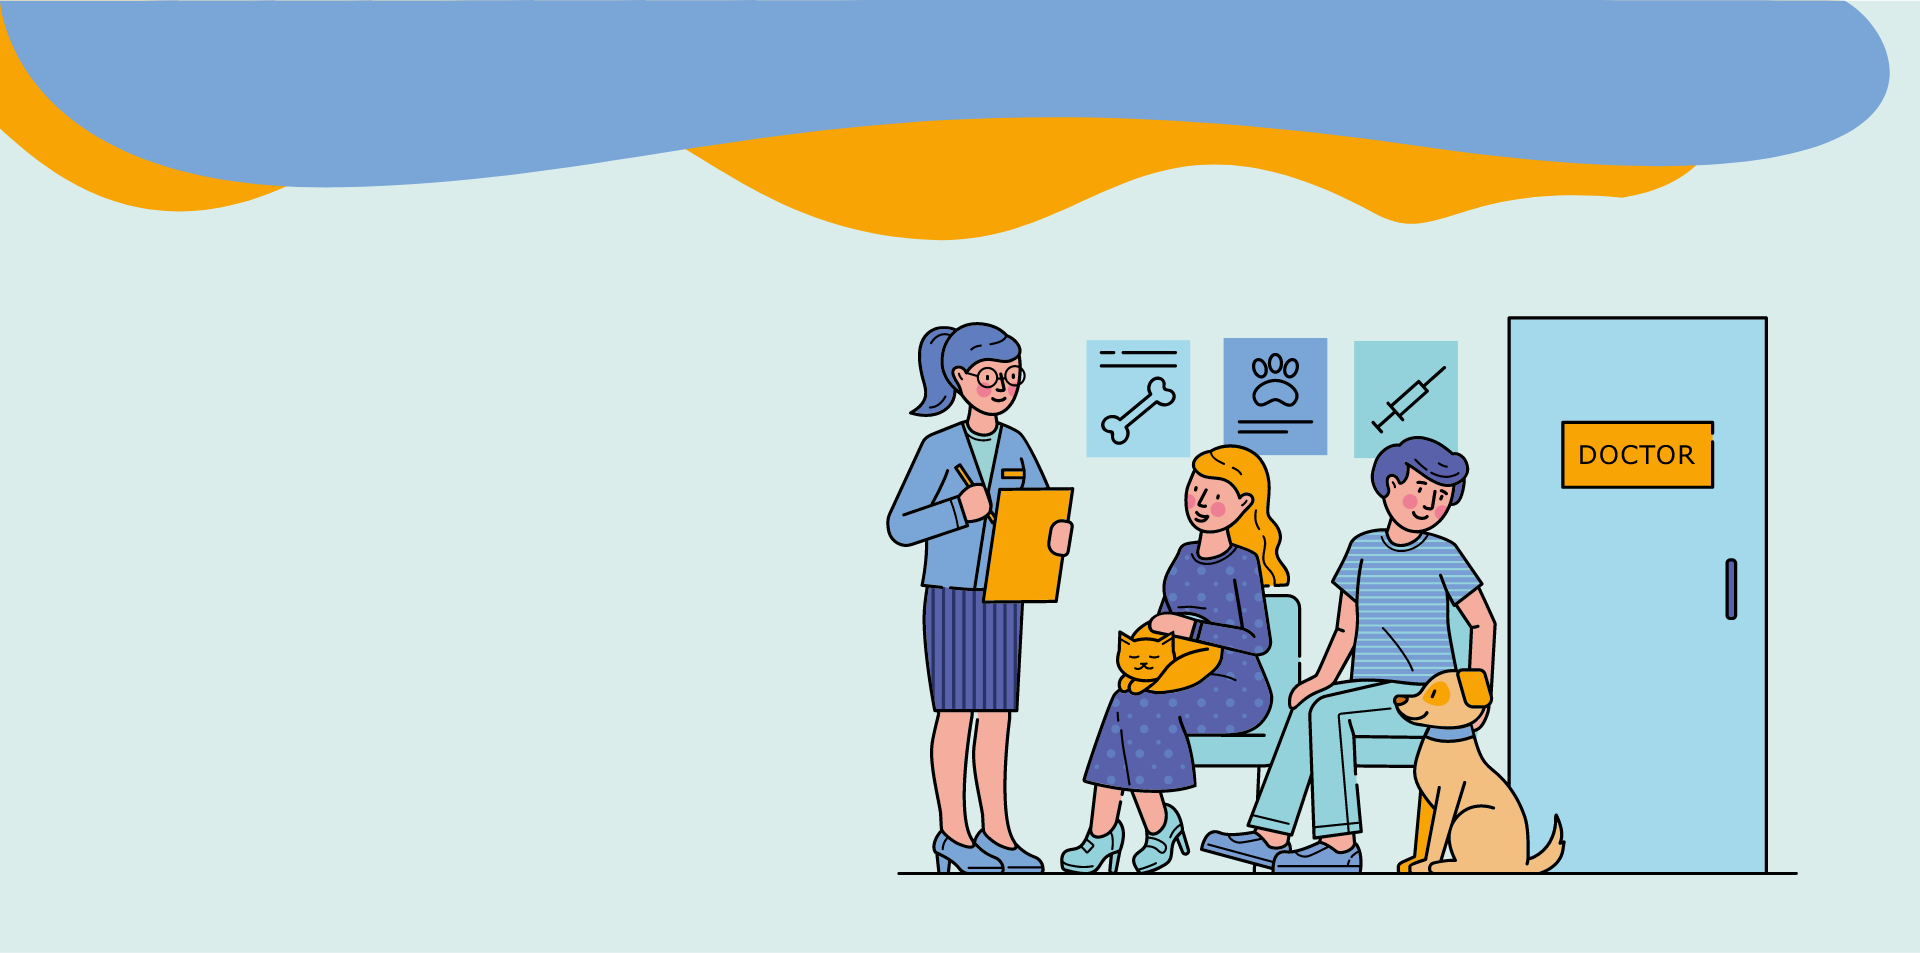
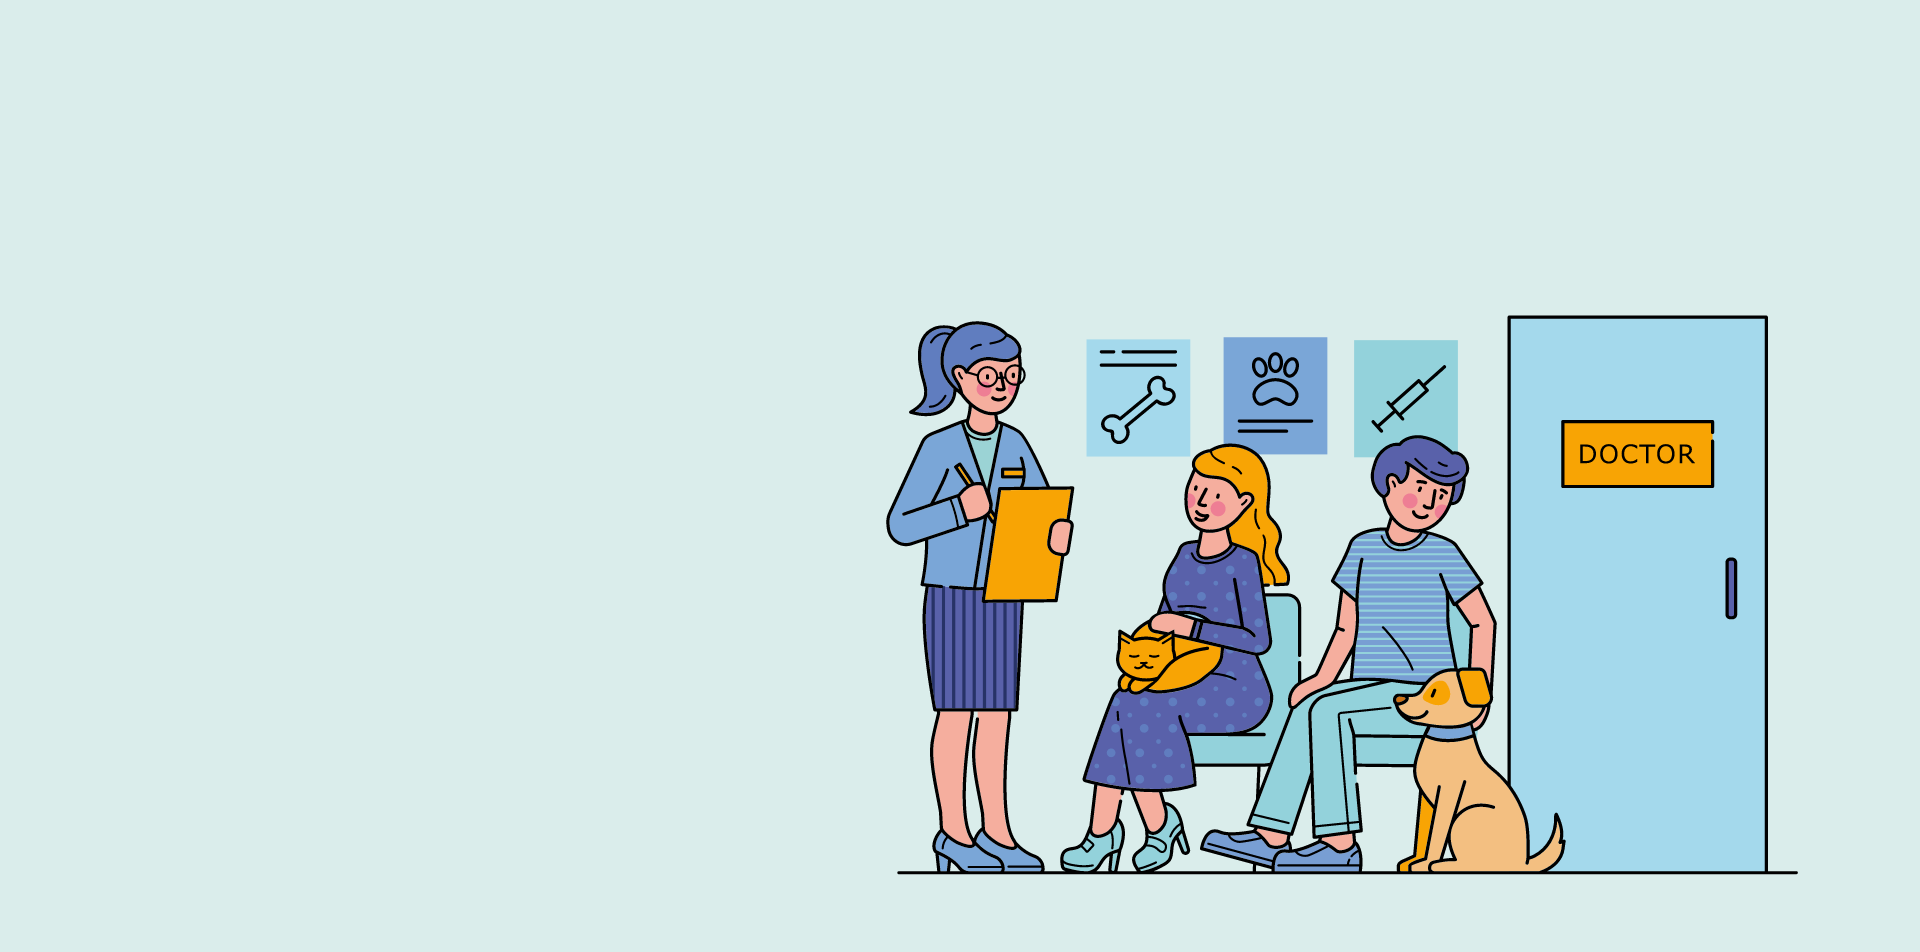
Vet theme fix

diff --git a/git/styled/vet/dev/css/style.css b/git/styled/vet/dev/css/style.css
@@ -1142,10 +1142,19 @@ footer {
     margin: 0 auto; }
 
 .nav {
-  background-color: transparent; }
+  background-color: transparent;
+  background-image: url("../img/header.png") !important;
+  background-repeat: no-repeat;
+  background-size: contain;
+  padding-bottom: 230px; }
+  @media (min-width: 1200px) {
+    .nav {
+      background-size: contain;
+      padding-bottom: 400px; } }
   @media (max-width: 767px) {
     .nav {
-      background-color: #ffffff; } }
+      background-color: #DAEDEB;
+      padding-bottom: 110px; } }
   .nav div.main_list ul li {
     color: #ffffff; }
     @media (max-width: 767px) {

diff --git a/git/styled/vet/dev/scss/theme/components/_header.scss b/git/styled/vet/dev/scss/theme/components/_header.scss
@@ -16,9 +16,19 @@
 }
 .nav {
   background-color: transparent;
+  background-image: url("../img/header.png") !important;
+  background-repeat: no-repeat;
+  background-size: contain;
+  padding-bottom: 230px;
+
+  @include respond-above(lg){
+    background-size: contain;
+    padding-bottom: 400px;
+  }
 
   @include respond-below(sm) {
-    background-color: $white;
+    background-color: $primary;
+    padding-bottom: 110px;
   }
 
   div {
